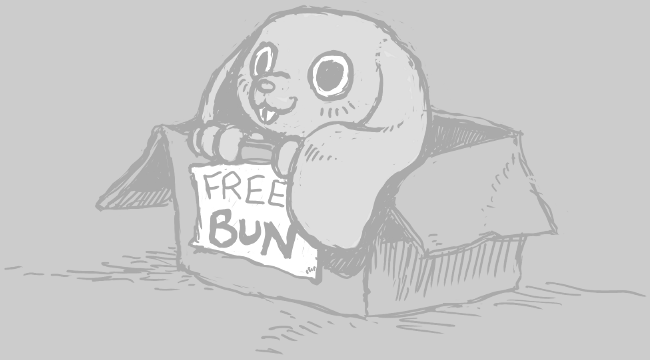
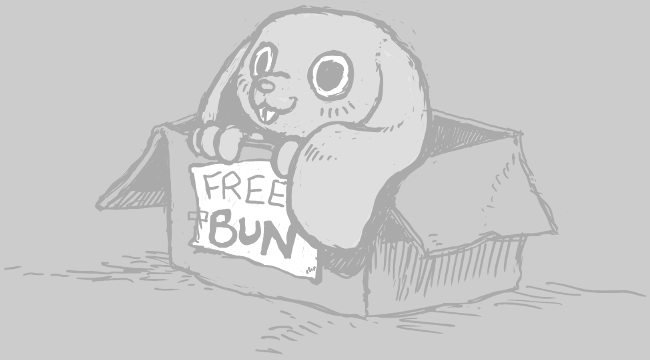
Added 404.html and 404 version of freebun image.

diff --git a/404.html b/404.html
@@ -29,7 +29,7 @@
 	</head>
 	<body>
 		<div id="wrapper">
-			<img id="bun" src="./res/freebun.png" width="650" height="360" alt="A cartoon rabbit sitting in a box labelled: 'Free Bun'">
+			<img id="bun" src="./res/nobun.png" width="650" height="360" alt="An empty box labelled: 'Free Bun'">
 		</div>
 		<script>
 			"use strict";
